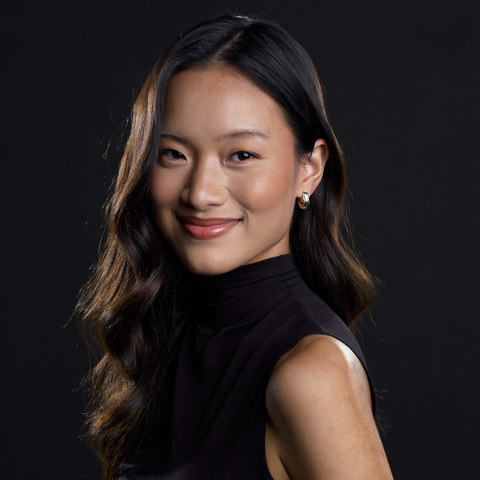
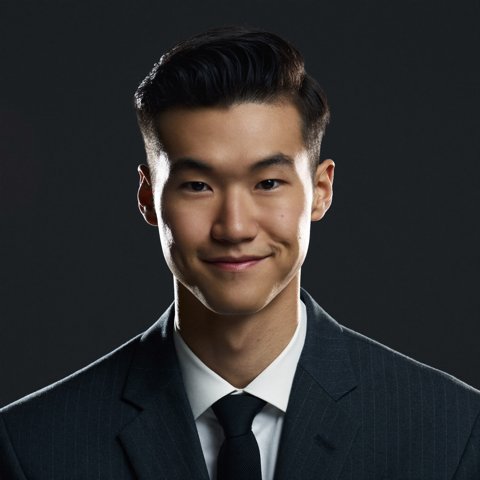
Add Warren (Web Developer) agent; switch Gem to male portrait

diff --git a/index.html b/index.html
@@ -8,7 +8,7 @@
   :root{
     --bg:#070a10; --panel:#0e131c; --panel2:#121927; --line:#1e2838;
     --text:#e7edf6; --muted:#8a98ad;
-    --gem:#2dd4bf; --cher:#60a5fa; --nova:#34d399; --pj:#a78bfa;
+    --gem:#2dd4bf; --cher:#60a5fa; --nova:#34d399; --pj:#a78bfa; --warren:#fb923c;
     --ok:#34d399; --warn:#fbbf24; --down:#f87171;
   }
   *{box-sizing:border-box;margin:0;padding:0}
@@ -33,9 +33,10 @@
     letter-spacing:1.2px;text-transform:uppercase}
   .ops .dot{width:8px;height:8px;border-radius:50%;animation:pulse 1.8s infinite}
   @keyframes pulse{0%,100%{opacity:1}50%{opacity:.35}}
-  .grid{display:grid;grid-template-columns:repeat(4,1fr);gap:18px}
-  @media(max-width:1080px){.grid{grid-template-columns:repeat(2,1fr)}}
-  @media(max-width:560px){.grid{grid-template-columns:1fr}}
+  .grid{display:grid;grid-template-columns:repeat(5,1fr);gap:18px}
+  @media(max-width:1180px){.grid{grid-template-columns:repeat(3,1fr)}}
+  @media(max-width:780px){.grid{grid-template-columns:repeat(2,1fr)}}
+  @media(max-width:520px){.grid{grid-template-columns:1fr}}
   .card{position:relative;background:linear-gradient(180deg,var(--panel2),var(--panel));
     border:1px solid var(--line);border-radius:18px;padding:22px 20px 20px;overflow:hidden;
     transition:transform .18s ease,box-shadow .18s ease,border-color .18s ease}
@@ -149,7 +150,7 @@
 </div>
 
 <script>
-const ACCENT = { gem:'#2dd4bf', cher:'#60a5fa', nova:'#34d399', pj:'#a78bfa' };
+const ACCENT = { gem:'#2dd4bf', cher:'#60a5fa', nova:'#34d399', pj:'#a78bfa', warren:'#fb923c' };
 const HEALTH = { ok:{c:'var(--ok)',t:'Healthy'}, warn:{c:'var(--warn)',t:'Busy'}, down:{c:'var(--down)',t:'Attention'} };
 
 function esc(s){return String(s).replace(/[&<>"]/g,c=>({'&':'&amp;','<':'&lt;','>':'&gt;','"':'&quot;'}[c]));}